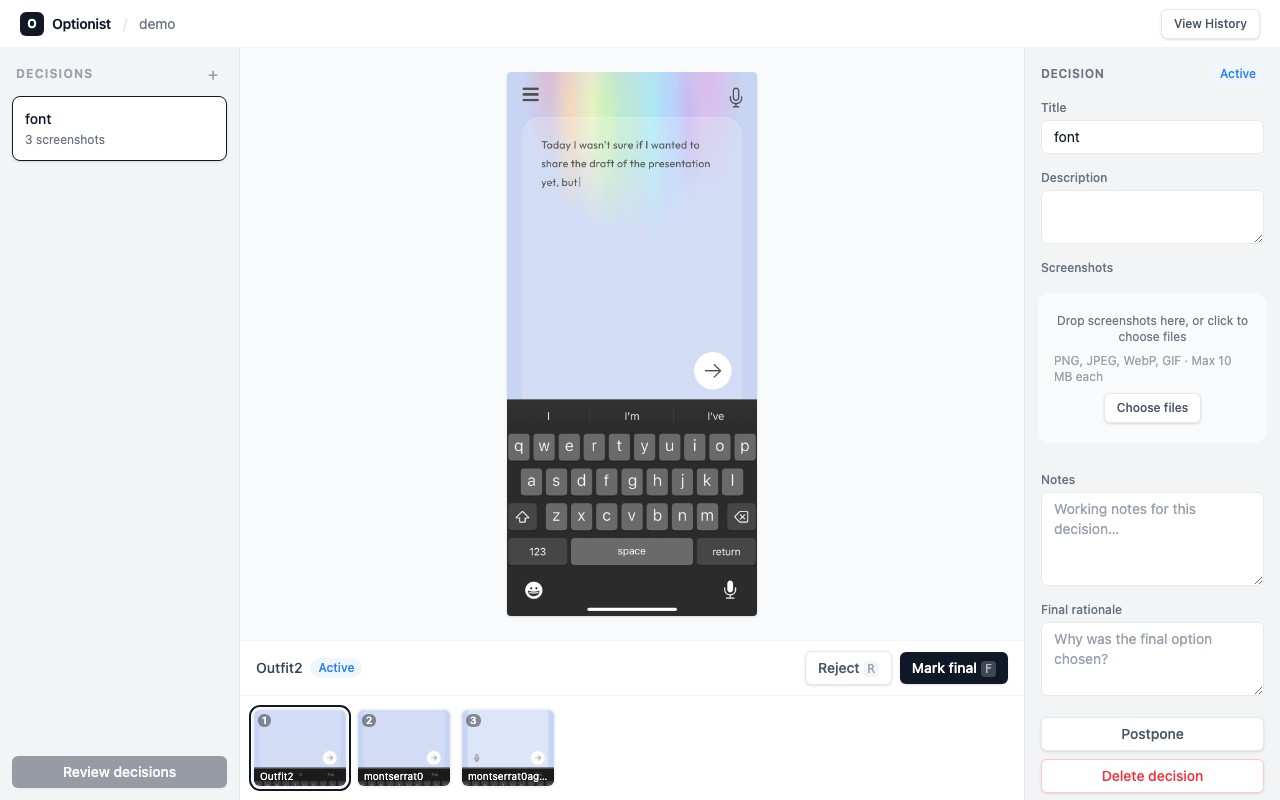
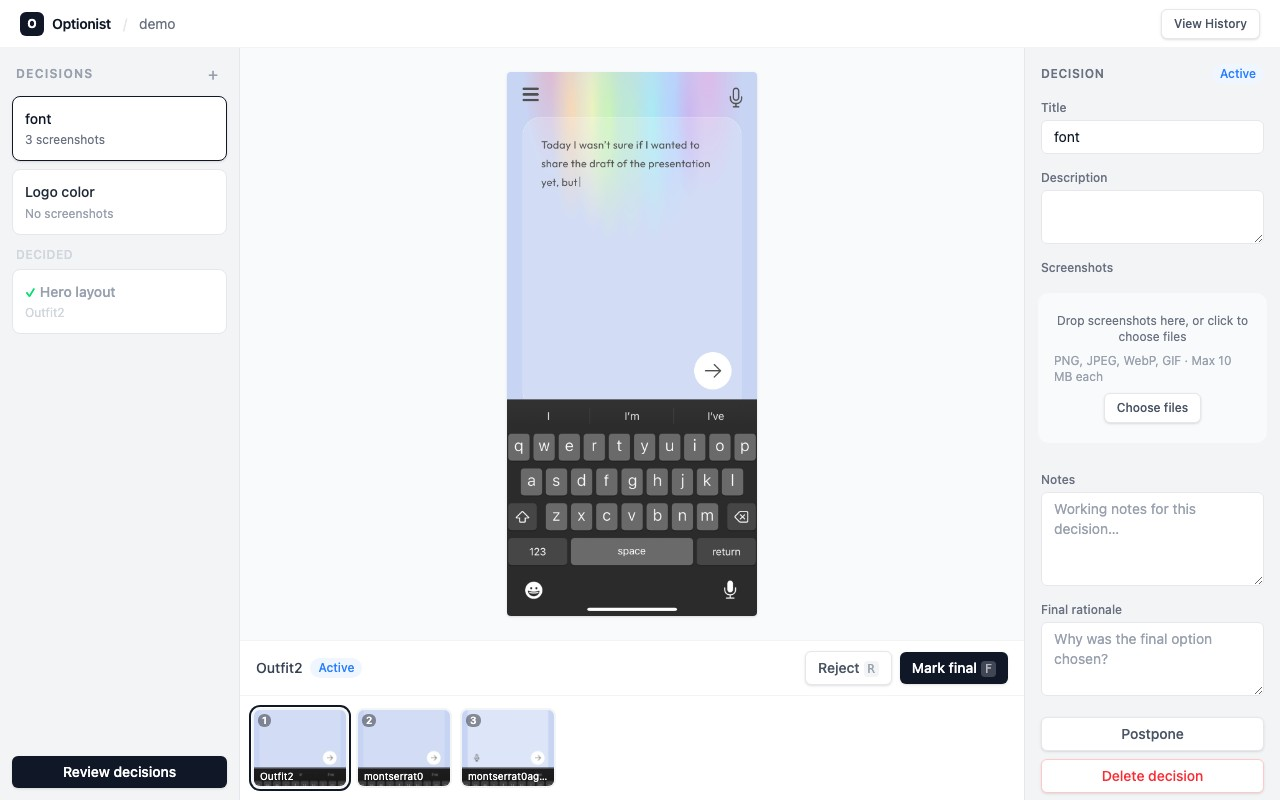
Seed demo with three decision states for screenshots
The demo seed only produced one active decision, so screenshots could never
show the finalized (✓) or unselected card states. Adds:
- "Logo color" — a second active decision, unselected card
- "Hero layout" — a finalized decision with a chosen option, shows the ✓

Refreshes the PR screenshot to capture all three states at once.

Changed region(s): [[0.0, 0.9375, 0.1875, 1.0], [0.0312, 0.3125, 0.0938, 0.375], [0.0312, 0.2188, 0.0938, 0.2812]]

diff --git a/scripts/make-demo-seed.js b/scripts/make-demo-seed.js
@@ -37,40 +37,44 @@ if (imageFiles.length === 0) {
 
 // IDs
 const projectId = randomUUID();
-const decisionId = randomUUID();
+const fontDecisionId = randomUUID();
+const logoDecisionId = randomUUID();
+const heroDecisionId = randomUUID();
 const ts = now();
 
-// Build options from images
-const optionIds = [];
 const options = {};
-for (const file of imageFiles) {
+
+// Helper: turn a demodata file into an option object for a given decision.
+function makeOption(file, decisionId) {
   const ext = extname(file).toLowerCase();
   const mime = MIME[ext];
   const raw = readFileSync(join(DEMODATA_DIR, file));
   const b64 = raw.toString("base64");
-  const dataUrl = `data:${mime};base64,${b64}`;
   const id = randomUUID();
-  optionIds.push(id);
   options[id] = {
     id,
     decisionId,
     name: basename(file, ext),
-    imageDataUrl: dataUrl,
+    imageDataUrl: `data:${mime};base64,${b64}`,
     imageMimeType: mime,
     status: "active",
     notes: "",
     createdAt: ts,
     updatedAt: ts,
   };
+  return id;
 }
 
-const decision = {
-  id: decisionId,
+// "font" — the active, selected decision; all demo images are its options.
+const fontOptionIds = imageFiles.map((file) => makeOption(file, fontDecisionId));
+
+const fontDecision = {
+  id: fontDecisionId,
   projectId,
   title: "font",
   description: "",
   status: "active",
-  optionIds,
+  optionIds: fontOptionIds,
   selectedOptionId: null,
   notes: "",
   finalRationale: "",
@@ -80,11 +84,50 @@ const decision = {
   updatedAt: ts,
 };
 
+// "Logo color" — a second active decision that hasn't been worked on yet.
+// Shows as an unselected card with no options, so screenshots capture the
+// resting (not-current) card state.
+const logoDecision = {
+  id: logoDecisionId,
+  projectId,
+  title: "Logo color",
+  description: "",
+  status: "active",
+  optionIds: [],
+  selectedOptionId: null,
+  notes: "",
+  finalRationale: "",
+  decidedAt: null,
+  archivedAt: null,
+  createdAt: ts,
+  updatedAt: ts,
+};
+
+// "Hero layout" — a finalized decision. Reuses the first demo image as its
+// chosen option so the card shows the ✓ plus the chosen option's name.
+const heroOptionId = makeOption(imageFiles[0], heroDecisionId);
+
+const heroDecision = {
+  id: heroDecisionId,
+  projectId,
+  title: "Hero layout",
+  description: "",
+  status: "finalized",
+  optionIds: [heroOptionId],
+  selectedOptionId: heroOptionId,
+  notes: "",
+  finalRationale: "",
+  decidedAt: ts,
+  archivedAt: null,
+  createdAt: ts,
+  updatedAt: ts,
+};
+
 const project = {
   id: projectId,
   name: "demo",
   description: "Demo project for screenshots",
-  decisionIds: [decisionId],
+  decisionIds: [fontDecisionId, logoDecisionId, heroDecisionId],
   createdAt: ts,
   updatedAt: ts,
 };
@@ -94,12 +137,16 @@ const seed = {
   dataVersion: 1,
   exportedAt: ts,
   projects: { [projectId]: project },
-  decisions: { [decisionId]: decision },
+  decisions: {
+    [fontDecisionId]: fontDecision,
+    [logoDecisionId]: logoDecision,
+    [heroDecisionId]: heroDecision,
+  },
   options,
 };
 
 writeFileSync(OUT_PATH, JSON.stringify(seed, null, 2));
-console.log(`Wrote seed.json with ${imageFiles.length} options from demodata/`);
+console.log(`Wrote seed.json with ${Object.keys(options).length} options from demodata/`);
 console.log("  Project: demo");
-console.log("  Decision: font");
-console.log(`  Options: ${imageFiles.join(", ")}`);
+console.log("  Decisions: font (active), Logo color (active), Hero layout (finalized)");
+console.log(`  Font options: ${imageFiles.join(", ")}`);